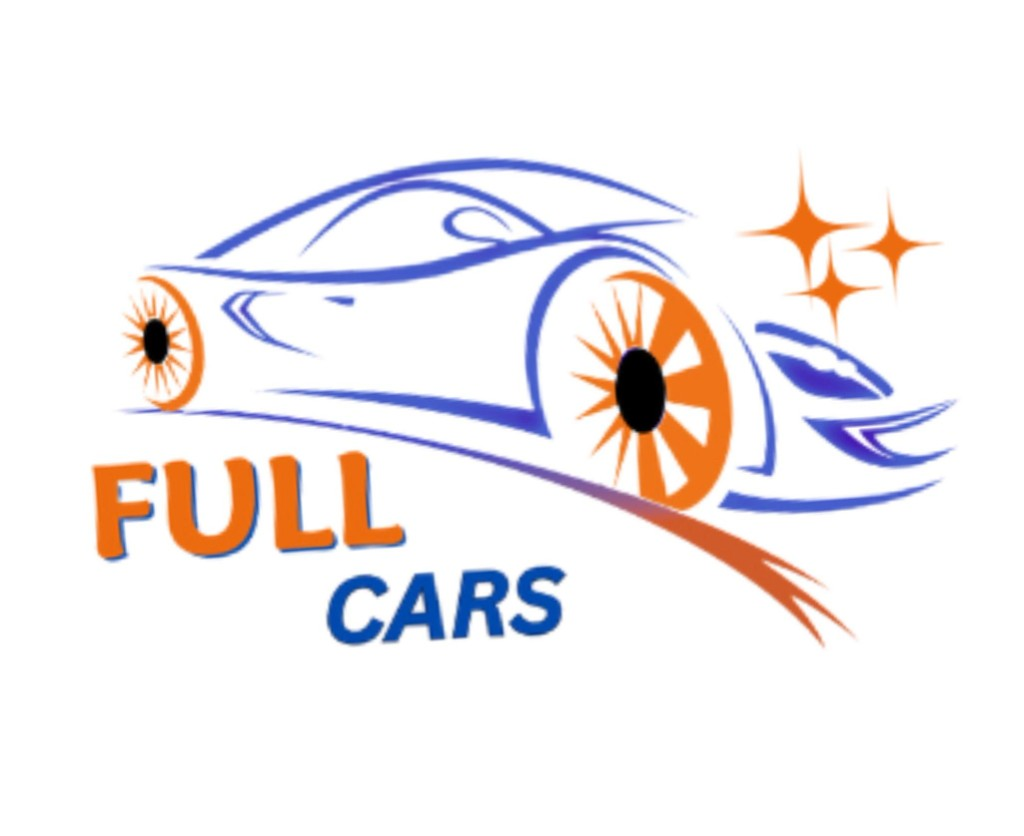
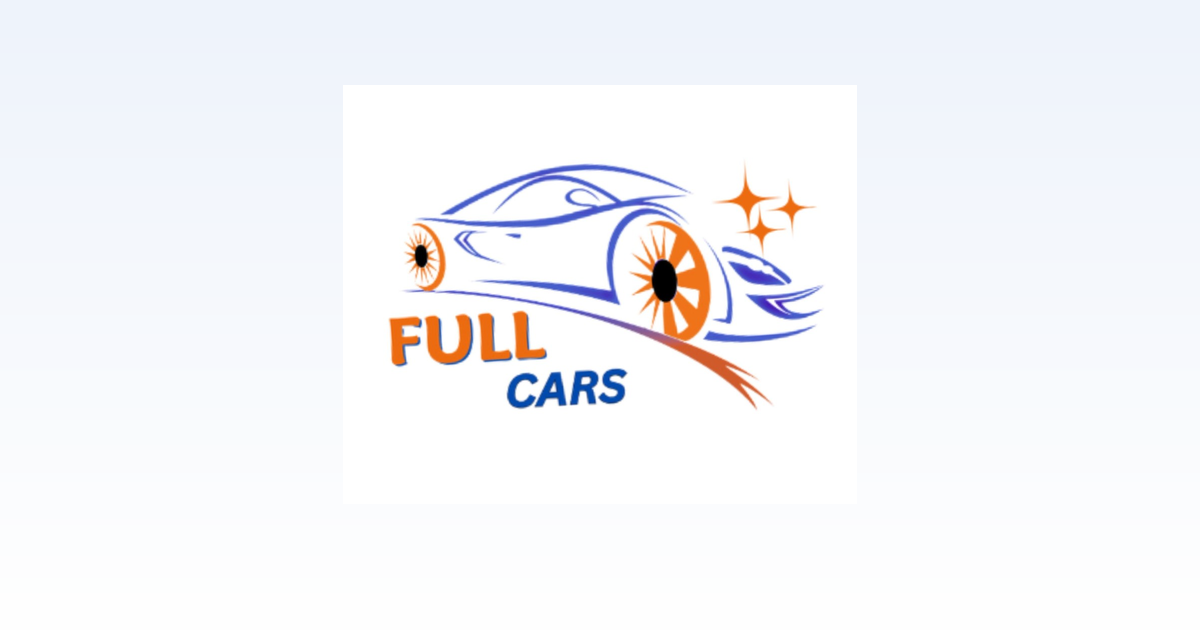
feat: Update SEO metadata, environment configurations, and sitemap for production deployment

Changed region(s): [[0.0938, 0.181, 0.9375, 0.7841]]

diff --git a/src/app/services/seo.service.ts b/src/app/services/seo.service.ts
@@ -2,6 +2,7 @@ import { Injectable } from '@angular/core';
 import { Meta, Title } from '@angular/platform-browser';
 import { NavigationEnd, Router } from '@angular/router';
 import { filter } from 'rxjs/operators';
+import { environment } from '../../environments/environment';
 import { LanguageService } from './language.service';
 
 @Injectable({ providedIn: 'root' })
@@ -49,6 +50,9 @@ export class SeoService {
     this.meta.updateTag({ property: 'og:url', content: pageUrl });
     this.meta.updateTag({ property: 'og:image', content: imageUrl });
     this.meta.updateTag({ property: 'og:image:secure_url', content: imageUrl });
+    this.meta.updateTag({ property: 'og:image:type', content: 'image/png' });
+    this.meta.updateTag({ property: 'og:image:width', content: '1200' });
+    this.meta.updateTag({ property: 'og:image:height', content: '630' });
     this.meta.updateTag({ property: 'og:image:alt', content: imageAlt });
     this.meta.updateTag({ property: 'og:locale', content: this.language.current === 'ar' ? 'ar_EG' : 'en_US' });
     this.meta.updateTag({
@@ -80,19 +84,19 @@ export class SeoService {
   }
 
   private getPageUrl(): string {
-    if (typeof window === 'undefined') {
-      return 'https://fullcars.com';
+    if (typeof window !== 'undefined' && window.location.origin) {
+      return `${window.location.origin}${this.router.url.split('?')[0] || '/'}`;
     }
 
-    return `${window.location.origin}${this.router.url.split('?')[0] || '/'}`;
+    return environment.siteUrl;
   }
 
   private getShareImageUrl(): string {
-    if (typeof window === 'undefined') {
-      return `https://fullcars.com${this.shareImagePath}`;
-    }
+    const baseUrl = typeof window !== 'undefined' && window.location.origin
+      ? window.location.origin
+      : environment.siteUrl;
 
-    return `${window.location.origin}${this.shareImagePath}`;
+    return `${baseUrl}${this.shareImagePath}`;
   }
 
   private updateCanonical(url: string): void {

diff --git a/src/index.html b/src/index.html
@@ -16,10 +16,14 @@
 
   <meta property="og:type" content="website">
   <meta property="og:site_name" content="FULL CARS">
+  <meta property="og:url" content="https://car-wash-psi-rosy.vercel.app/">
   <meta property="og:title" content="FULL CARS | Premium Auto Care Rewards">
   <meta property="og:description" content="Earn points on every car wash with FULL CARS. Sign in, track rewards, and redeem free washes with your digital pass.">
-  <meta property="og:image" content="/assets/og-share.png">
-  <meta property="og:image:secure_url" content="/assets/og-share.png">
+  <meta property="og:image" content="https://car-wash-psi-rosy.vercel.app/assets/og-share.png">
+  <meta property="og:image:secure_url" content="https://car-wash-psi-rosy.vercel.app/assets/og-share.png">
+  <meta property="og:image:type" content="image/png">
+  <meta property="og:image:width" content="1200">
+  <meta property="og:image:height" content="630">
   <meta property="og:image:alt" content="FULL CARS logo">
   <meta property="og:locale" content="en_US">
   <meta property="og:locale:alternate" content="ar_EG">
@@ -27,10 +31,10 @@
   <meta name="twitter:card" content="summary_large_image">
   <meta name="twitter:title" content="FULL CARS | Premium Auto Care Rewards">
   <meta name="twitter:description" content="Earn points on every car wash with FULL CARS. Sign in, track rewards, and redeem free washes with your digital pass.">
-  <meta name="twitter:image" content="/assets/og-share.png">
+  <meta name="twitter:image" content="https://car-wash-psi-rosy.vercel.app/assets/og-share.png">
   <meta name="twitter:image:alt" content="FULL CARS logo">
 
-  <link rel="canonical" href="/">
+  <link rel="canonical" href="https://car-wash-psi-rosy.vercel.app/">
   <link rel="icon" type="image/png" href="assets/logo.png">
   <link rel="apple-touch-icon" href="assets/apple-touch-icon.png">
   <link rel="manifest" href="site.webmanifest">
@@ -40,9 +44,9 @@
       "@context": "https://schema.org",
       "@type": "AutomotiveBusiness",
       "name": "FULL CARS",
-      "url": "/",
-      "logo": "/assets/og-share.png",
-      "image": "/assets/og-share.png",
+      "url": "https://car-wash-psi-rosy.vercel.app/",
+      "logo": "https://car-wash-psi-rosy.vercel.app/assets/og-share.png",
+      "image": "https://car-wash-psi-rosy.vercel.app/assets/og-share.png",
       "description": "Earn points on every car wash with FULL CARS. Sign in, track rewards, and redeem free washes with your digital pass.",
       "inLanguage": "en-US"
     }

diff --git a/src/environments/environment.prod.ts b/src/environments/environment.prod.ts
@@ -1,0 +1,4 @@
+export const environment = {
+  production: true,
+  siteUrl: 'https://car-wash-psi-rosy.vercel.app'
+};

diff --git a/src/environments/environment.ts b/src/environments/environment.ts
@@ -1,0 +1,4 @@
+export const environment = {
+  production: false,
+  siteUrl: 'http://localhost:4200'
+};